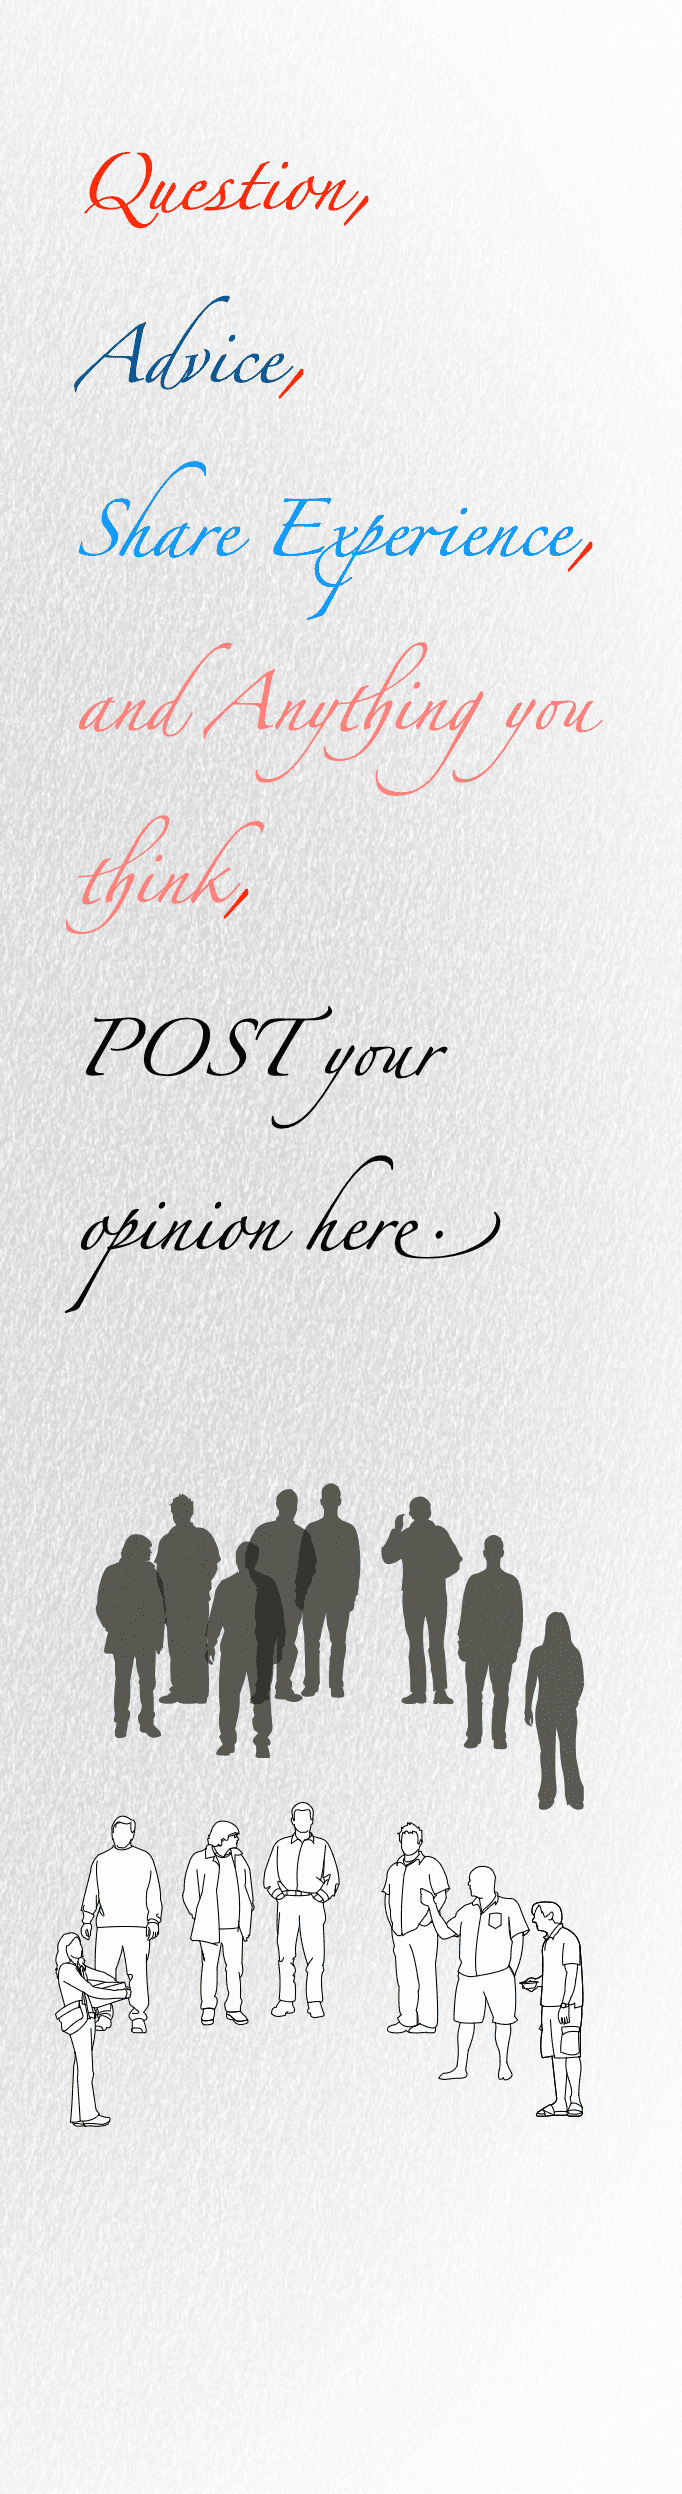
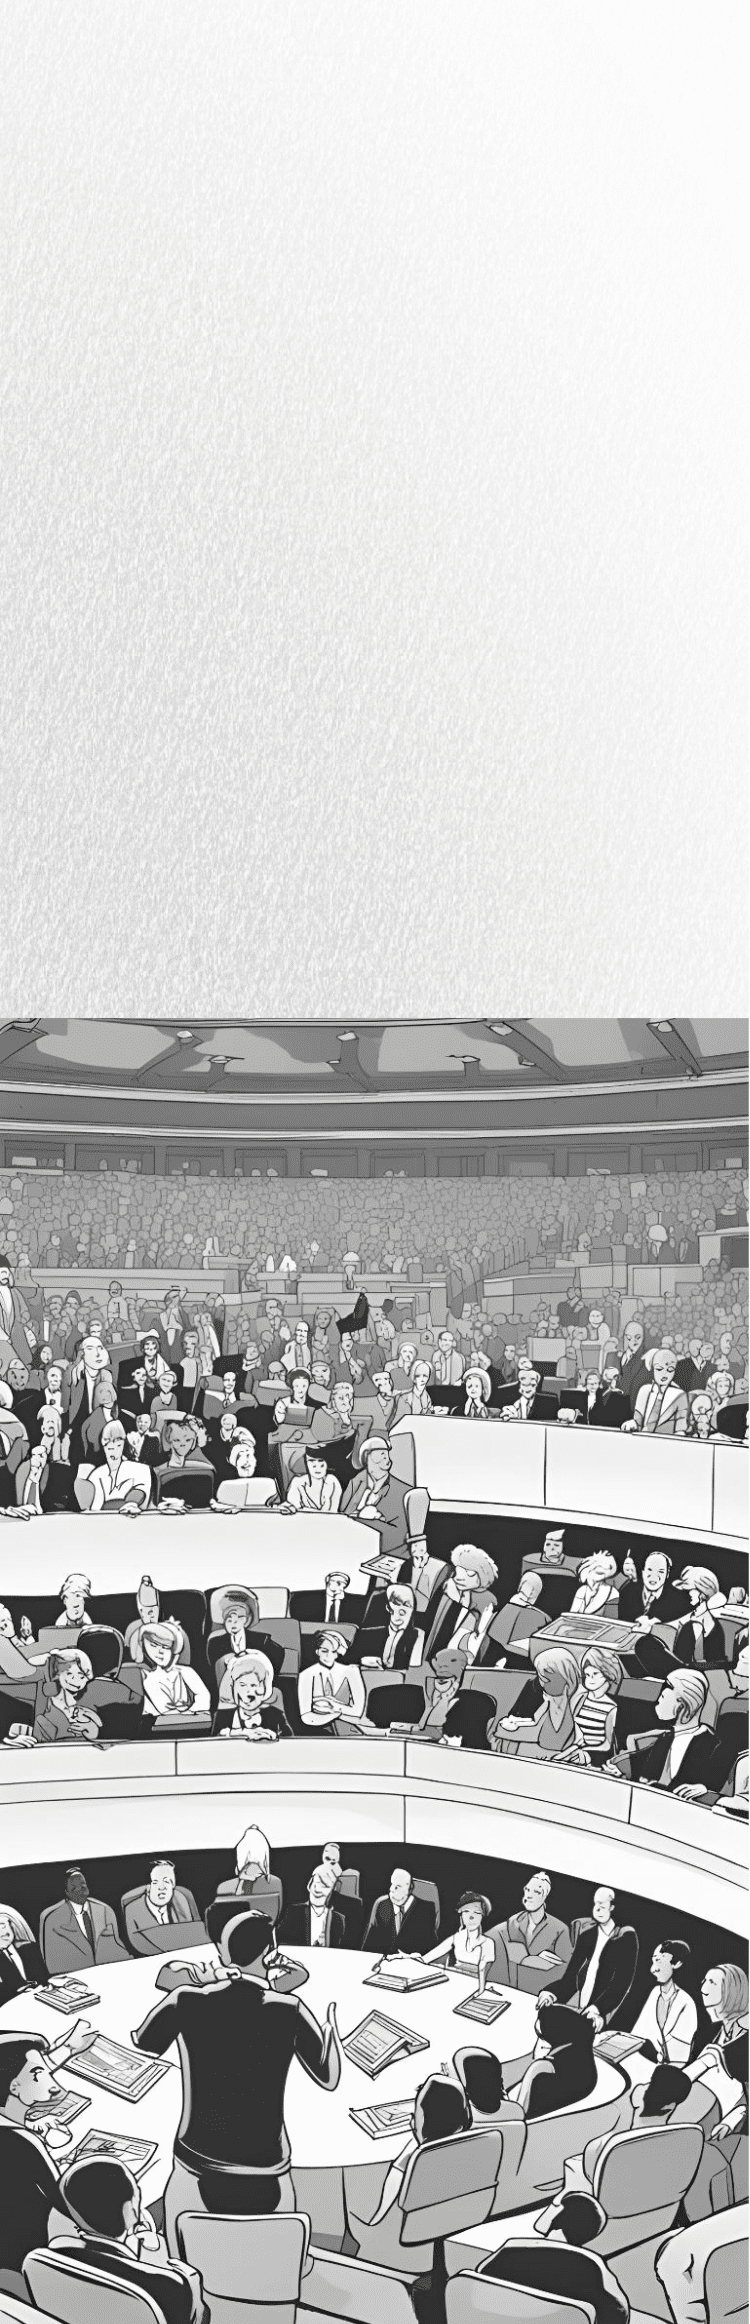
update240822

diff --git a/app/component/TubeInfo.js b/app/component/TubeInfo.js
@@ -1,0 +1,103 @@
+'use client';
+import { useEffect, useState } from 'react';
+
+const getTubeInfo = ({ setCalculatedValue }) => {
+	const [stripThk, setStripThk] = useState(0.9);
+	const [stripWidth, setStripWidth] = useState(14);
+	const [density, setDensity] = useState(2.01);
+	const [target, setTarget] = useState(14);
+	const [tubeDia, setTubeDia] = useState(0);
+	const [voidArea, setVoidArea] = useState(0);
+	const [maxFill, setMaxFill] = useState(0);
+	const [compactDia, setCompactDia] = useState(0);
+
+	const handleChange = (setter) => (event) => {
+		setter(parseFloat(event.target.value));
+	};
+
+	useEffect(() => {
+		const tubeDiameter = stripWidth / Math.PI + stripThk;
+		const voidDia = tubeDiameter - 2 * stripThk;
+		const voidAreaCalc = Math.PI * Math.pow(voidDia / 2, 2);
+		const stripWeight = stripThk * stripWidth * 7.8;
+		const fluxWeight = voidAreaCalc * density;
+		const maxFillRatio = (fluxWeight / (stripWeight + fluxWeight)) * 100;
+		const realDensity = density + 1.5;
+		const fluxArea = (voidAreaCalc * density) / realDensity;
+		const compactArea = fluxArea + stripThk * stripWidth;
+		const compactDiameter = 2 * Math.sqrt(compactArea / Math.PI);
+
+		setTubeDia(tubeDiameter);
+		setVoidArea(voidAreaCalc);
+		setMaxFill(maxFillRatio);
+		setCompactDia(compactDiameter);
+	}, [stripThk, stripWidth, density]);
+
+	return (
+		<div className='tubeForFCW'>
+			<h3 style={{ fontWeight: '700', color: 'blue'}}>Tube Info. for FCW</h3>
+			<div className='Info'>
+				<ul>
+					<li>
+						<div>
+							<label className='input_label'>Strip (t - w): </label>
+							<input
+								type='number'
+								name='stripThickness'
+								step='0.1'
+								value={stripThk}
+								onChange={handleChange(setStripThk)}
+							/>
+							<label className='input_label'> - </label>
+							<input
+								type='number'
+								name='stripWidth'
+								step='0.1'
+								value={stripWidth}
+								onChange={handleChange(setStripWidth)}
+							/>
+						</div>
+					</li>
+					<li>
+						<p>
+							Formed Tube Dia.: <strong>{tubeDia.toFixed(2)}mm</strong>
+						</p>
+					</li>
+					<li>
+						<p>
+							Void Area for Flux:{' '}
+							<strong>
+								{voidArea.toFixed(2)}mm<sup>2</sup>
+							</strong>
+						</p>
+					</li>
+					<li>
+						<div className='fluxDensity'>
+							<label className='input_label'>Flux Specific Density:</label>
+							<input type='number' step='0.01' value={density} onChange={handleChange(setDensity)} />
+						</div>
+					</li>
+					<li>
+						<p title='!!! Add 1 ~ 1.5% in real situation'>
+							Max Fill Ratio: <strong>{maxFill.toFixed(2)}%</strong>
+						</p>
+					</li>
+					<li>
+						<div className='targetFill'>
+							<label className='input_label'>Target Fill Ratio:</label>
+							<input type='number' step='0.01' value={target} onChange={handleChange(setTarget)} />
+							<span>%</span>
+						</div>
+					</li>
+					<li>
+						<p title='!This is the size that the flux became completely compressed.'>
+							Compact Tube Size: <strong>{compactDia.toFixed(2)}mm</strong>
+						</p>
+					</li>
+				</ul>
+			</div>
+		</div>
+	);
+};
+
+export default getTubeInfo;

diff --git a/app/component/WeatherBox.js b/app/component/WeatherBox.js
@@ -68,7 +68,7 @@ const WeatherBox = () => {
 	};
 
 	return (
-		<div>
+		<div style={{ marginTop: '10px' }}>
 			{loading ? (
 				<div className='weather-box'>
 					<h3>Loading ......</h3>
@@ -81,7 +81,7 @@ const WeatherBox = () => {
 						{weather?.main.temp.toFixed(1)} ℃ / {(weather?.main.temp * 1.8 + 32).toFixed(1)} ℉
 					</h4>
 					<h3 style={{ color: getColorByHumidity(weather?.main.humidity) }}>Humidity: {weather?.main.humidity}%</h3>
-					<h4 style={{ color: getColorByDewPoint(weather?.main.temp, dPoint) }}>
+					<h4 style={{ backgroundColor: 'white', color: getColorByDewPoint(weather?.main.temp, dPoint) }}>
 						Dew Point: {dPoint} ℃ / {(dPoint * 1.8 + 32).toFixed(1)} ℉
 					</h4>
 				</div>

diff --git a/app/list/page.js b/app/list/page.js
@@ -111,13 +111,19 @@ export default async function List({searchParams}) {
 				</main>
 
 				<aside id='asideForum'>
-					
+					<div>
+						<h4>Question,</h4>
+						<h4>Advice,</h4>
+						<h4>Share Experience,</h4>
+						<h4>and anything you think,</h4>
+						<h4>POST your opinion!!</h4>
+					</div>
 				</aside>
 
 				<footer>
 					author: Alex Kwak <br />
 					&copy; copyright reserved.
-					<small>We do not take any responsibility except on Contracts.</small>
+					<small>I do not take any responsibility except on Contracts.</small>
 					<br />
 					<small>
 						<a href='mailto:alexkwak24@gmail.com'> alexkwak24@gmail.com</a>

diff --git a/app/forming/page.js b/app/forming/page.js
@@ -42,13 +42,14 @@ export default async function forming(req, res) {
 							</li> */}
 						</ul>
 					</div>
-
-					
+					<div>
+						<TubeInfo />
+					</div>
 				</aside>
 				<footer>
 					author: Alex Kwak <br />
 					&copy; copyright reserved.
-					<small>We do not take any responsibility except on Contracts.</small>
+					<small>I do not take any responsibility except on Contracts.</small>
 					<br />
 					<small>
 						<a href='mailto:alexkwak24@gmail.com'> alexkwak24@gmail.com</a>

diff --git a/app/pcd/page.js b/app/pcd/page.js
@@ -46,7 +46,7 @@ export default async function DieProfile(req, res) {
 				<footer>
 					author: Alex Kwak <br />
 					&copy; copyright reserved.
-					<small>We do not take any responsibility except on Contracts.</small>
+					<small>I do not take any responsibility except on Contracts.</small>
 					<br />
 					<small>
 						<a href='mailto:alexkwak24@gmail.com'> alexkwak24@gmail.com</a>

diff --git a/app/globals.css b/app/globals.css
@@ -1189,3 +1189,24 @@ a {
 	font-weight: 600;
 	padding: 10px;
 }
+
+
+.tubeForFCW {
+	margin-top: -150px;
+	font-size: 12px;
+	color: black;
+	background-color: rgba(218, 243, 214, 0.641);
+	padding: 5px 10px;
+}
+
+.Info > ul > li > div >input {
+	width: 45px;
+	text-align: center;
+	font-size: 12px;
+	margin-left: 5px;
+	margin-right: 5px;
+}
+
+.Info > ul {
+	margin-left: -15px;
+}

diff --git a/app/spool/page.js b/app/spool/page.js
@@ -57,7 +57,7 @@ export default function designSpool(req, res) {
 			<footer>
 				author: Alex Kwak <br />
 				&copy; copyright reserved.
-				<small>We do not take any responsibility except on Contracts.</small>
+				<small>I do not take any responsibility except on Contracts.</small>
 				<br />
 				<small>
 					<a href='mailto:alexkwak24@gmail.com'> alexkwak24@gmail.com</a>

diff --git a/app/detail/[id]/page.js b/app/detail/[id]/page.js
@@ -34,7 +34,7 @@ export default async function Detail(props) {
 				<hr />
 				author: Alex Kwak <br />
 				&copy; copyright reserved.
-				<small>We do not take any responsibility except on Contracts.</small>
+				<small>I do not take any responsibility except on Contracts.</small>
 				<br />
 				<small>
 					<a href='mailto:alexkwak24@gmail.com'> alexkwak24@gmail.com</a>

diff --git a/app/crd/page.js b/app/crd/page.js
@@ -57,7 +57,7 @@ export default async function CRD(req, res) {
 					</Link>{' '}
 					<br />
 					&copy; copyright reserved.
-					<small>We do not take any responsibility except on Contracts.</small>
+					<small>I do not take any responsibility except on Contracts.</small>
 					<br />
 					<small>
 						<a href='mailto:alexkwak24@gmail.com'> alexkwak24@gmail.com</a>

diff --git a/app/register/page.js b/app/register/page.js
@@ -24,7 +24,7 @@ export default function Register() {
 			<footer>
 				author: Alex Kwak <br />
 				&copy; copyright reserved.
-				<small>We do not take any responsibility except on Contracts.</small>
+				<small>I do not take any responsibility except on Contracts.</small>
 				<br />
 				<small>
 					<a href='mailto:alexkwak24@gmail.com'> alexkwak24@gmail.com</a>
